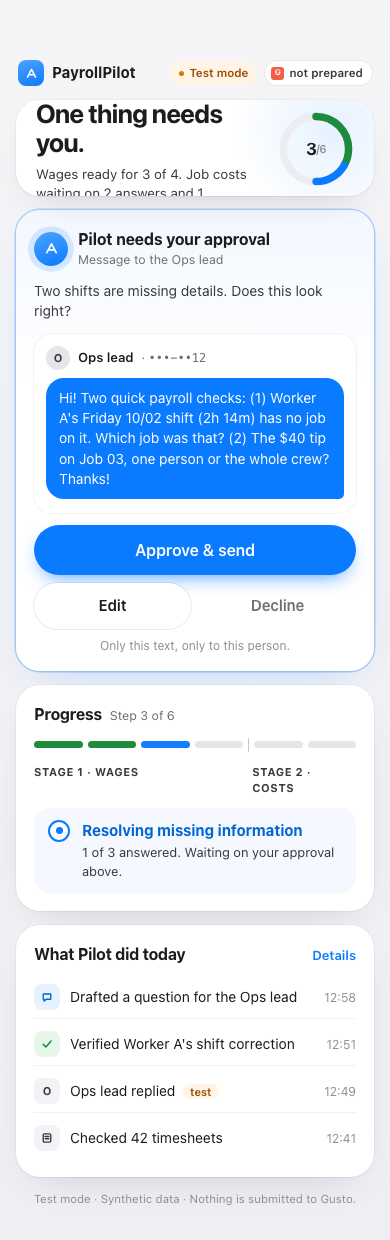
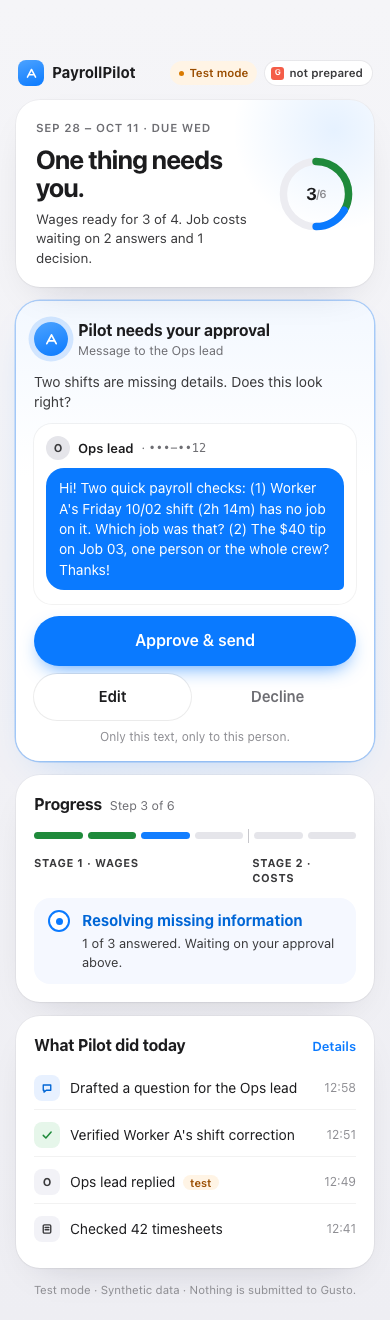
G-01: phone home: cards no longer shrink inside the frame

diff --git a/design/claude-design/Phone.dc.html b/design/claude-design/Phone.dc.html
@@ -18,9 +18,9 @@ button:active{transform:scale(.98)}
 @media (prefers-reduced-motion: reduce){*{animation:none !important}}
 </style>
 </helmet>
-<div layer-name="Phone" style="width:390px;height:1240px;box-sizing:border-box;background:linear-gradient(180deg,#F5F5F8,#EEEEF3);display:flex;flex-direction:column;gap:14px;padding:60px 16px 32px;font-size:15px;line-height:1.45">
+<div layer-name="Phone" style="width:390px;height:1320px;box-sizing:border-box;background:linear-gradient(180deg,#F5F5F8,#EEEEF3);display:flex;flex-direction:column;gap:14px;padding:60px 16px 32px;font-size:15px;line-height:1.45">
 
-  <div layer-name="Top" style="display:flex;align-items:center;gap:8px;padding:0 2px">
+  <div layer-name="Top" style="flex-shrink:0;display:flex;align-items:center;gap:8px;padding:0 2px">
     <div aria-hidden="true" style="width:26px;height:26px;border-radius:8px;background:linear-gradient(160deg,#4DA3FF,{{accent}});display:flex;align-items:center;justify-content:center"><svg width="13" height="13" viewBox="0 0 16 16" fill="none" stroke="#fff" stroke-width="1.9" stroke-linecap="round" stroke-linejoin="round"><path d="M3 12.5 8 3l5 9.5"></path><path d="M5.5 9.5h5"></path></svg></div>
     <div style="font-weight:700;font-size:15px">PayrollPilot</div>
     <div style="flex:1 1 8px"></div>
@@ -28,7 +28,7 @@ button:active{transform:scale(.98)}
     <div style="display:flex;align-items:center;gap:5px;height:24px;padding:0 9px 0 6px;border-radius:999px;background:#FFFFFF;box-shadow:0 0 0 1px rgba(0,0,0,.05);font-size:11.5px;font-weight:600;color:#3A3A3C"><span aria-hidden="true" style="width:13px;height:13px;border-radius:3px;background:#F45D48;color:#fff;font-size:8px;font-weight:700;display:flex;align-items:center;justify-content:center">G</span>not prepared</div>
   </div>
 
-  <div layer-name="Hero" style="background:#FFFFFF;border-radius:24px;box-shadow:0 1px 2px rgba(0,0,0,.03),0 16px 40px -24px rgba(20,20,40,.25),0 0 0 1px rgba(0,0,0,.03);padding:20px 20px 18px;display:flex;align-items:center;gap:16px;position:relative;overflow:hidden">
+  <div layer-name="Hero" style="flex-shrink:0;background:#FFFFFF;border-radius:24px;box-shadow:0 1px 2px rgba(0,0,0,.03),0 16px 40px -24px rgba(20,20,40,.25),0 0 0 1px rgba(0,0,0,.03);padding:20px 20px 18px;display:flex;align-items:center;gap:16px;position:relative;overflow:hidden">
     <div aria-hidden="true" style="position:absolute;right:-70px;top:-80px;width:220px;height:220px;border-radius:50%;background:radial-gradient(circle,rgba(10,122,255,.10),rgba(10,122,255,0) 65%)"></div>
     <div style="display:flex;flex-direction:column;gap:8px;flex:1 1 0;min-width:0;position:relative">
       <div style="font-size:11.5px;font-weight:600;letter-spacing:.06em;text-transform:uppercase;color:#6E6E73">Sep 28 – Oct 11 · due Wed</div>
@@ -41,7 +41,7 @@ button:active{transform:scale(.98)}
     </div>
   </div>
 
-  <div layer-name="Needs your approval" style="background:linear-gradient(180deg,#F3F8FF 0%,#FFFFFF 38%);border-radius:24px;box-shadow:0 1px 2px rgba(0,0,0,.03),0 16px 40px -24px rgba(10,122,255,.35),0 0 0 1.5px rgba(10,122,255,.30);padding:18px 18px 16px;display:flex;flex-direction:column;gap:12px">
+  <div layer-name="Needs your approval" style="flex-shrink:0;background:linear-gradient(180deg,#F3F8FF 0%,#FFFFFF 38%);border-radius:24px;box-shadow:0 1px 2px rgba(0,0,0,.03),0 16px 40px -24px rgba(10,122,255,.35),0 0 0 1.5px rgba(10,122,255,.30);padding:18px 18px 16px;display:flex;flex-direction:column;gap:12px">
     <div style="display:flex;align-items:center;gap:10px">
       <div aria-hidden="true" style="width:34px;height:34px;border-radius:50%;background:linear-gradient(160deg,#4DA3FF,{{accent}});display:flex;align-items:center;justify-content:center;animation:pp-pulse 2.4s infinite"><svg width="15" height="15" viewBox="0 0 16 16" fill="none" stroke="#fff" stroke-width="1.8" stroke-linecap="round" stroke-linejoin="round"><path d="M3 12.5 8 3l5 9.5"></path><path d="M5.5 9.5h5"></path></svg></div>
       <div style="display:flex;flex-direction:column"><div style="font-size:16px;font-weight:700;letter-spacing:-.01em">Pilot needs your approval</div><div style="font-size:12.5px;color:#6E6E73">Message to the Ops lead</div></div>
@@ -61,7 +61,7 @@ button:active{transform:scale(.98)}
     </div>
   </div>
 
-  <div layer-name="Progress" style="background:#FFFFFF;border-radius:24px;box-shadow:0 1px 2px rgba(0,0,0,.03),0 16px 40px -24px rgba(20,20,40,.22),0 0 0 1px rgba(0,0,0,.03);padding:18px;display:flex;flex-direction:column;gap:12px">
+  <div layer-name="Progress" style="flex-shrink:0;background:#FFFFFF;border-radius:24px;box-shadow:0 1px 2px rgba(0,0,0,.03),0 16px 40px -24px rgba(20,20,40,.22),0 0 0 1px rgba(0,0,0,.03);padding:18px;display:flex;flex-direction:column;gap:12px">
     <div style="display:flex;align-items:baseline;gap:8px"><div style="font-size:16px;font-weight:700;letter-spacing:-.015em">Progress</div><div style="font-size:12.5px;color:#6E6E73">Step 3 of 6</div></div>
     <div style="display:flex;gap:5px;align-items:center">
       <div aria-hidden="true" style="flex:1 1 0;height:7px;border-radius:999px;background:#1F8A3B"></div>
@@ -79,7 +79,7 @@ button:active{transform:scale(.98)}
     </div>
   </div>
 
-  <div layer-name="Activity" style="background:#FFFFFF;border-radius:24px;box-shadow:0 1px 2px rgba(0,0,0,.03),0 16px 40px -24px rgba(20,20,40,.22),0 0 0 1px rgba(0,0,0,.03);padding:18px;display:flex;flex-direction:column;gap:4px">
+  <div layer-name="Activity" style="flex-shrink:0;background:#FFFFFF;border-radius:24px;box-shadow:0 1px 2px rgba(0,0,0,.03),0 16px 40px -24px rgba(20,20,40,.22),0 0 0 1px rgba(0,0,0,.03);padding:18px;display:flex;flex-direction:column;gap:4px">
     <div style="display:flex;align-items:baseline;padding-bottom:6px"><div style="font-size:16px;font-weight:700;letter-spacing:-.015em">What Pilot did today</div><div style="flex:1 1 8px"></div><a href="#details" style="font-size:13px;font-weight:600;text-decoration:none">Details</a></div>
     <div style="display:flex;align-items:center;gap:10px;padding:8px 0;border-bottom:1px solid rgba(0,0,0,.05)"><span aria-hidden="true" style="width:26px;height:26px;border-radius:8px;background:#E8F1FF;display:flex;align-items:center;justify-content:center;flex-shrink:0"><svg width="12" height="12" viewBox="0 0 16 16" fill="none" stroke="#0066D6" stroke-width="1.8" stroke-linecap="round" stroke-linejoin="round"><path d="M3 4h10v7H7l-3 2.5V11H3z"></path></svg></span><div style="flex:1 1 0;font-size:14px">Drafted a question for the Ops lead</div><div style="font-size:12px;color:#8E8E93">12:58</div></div>
     <div style="display:flex;align-items:center;gap:10px;padding:8px 0;border-bottom:1px solid rgba(0,0,0,.05)"><span aria-hidden="true" style="width:26px;height:26px;border-radius:8px;background:#E6F6EA;display:flex;align-items:center;justify-content:center;flex-shrink:0"><svg width="12" height="12" viewBox="0 0 16 16" fill="none" stroke="#1F8A3B" stroke-width="2" stroke-linecap="round" stroke-linejoin="round"><path d="M3 8.5l3.5 3.5 7-8"></path></svg></span><div style="flex:1 1 0;font-size:14px">Verified Worker A's shift correction</div><div style="font-size:12px;color:#8E8E93">12:51</div></div>
@@ -90,7 +90,7 @@ button:active{transform:scale(.98)}
   <div style="font-size:11.5px;color:#8E8E93;text-align:center;padding:0 8px">Test mode · Synthetic data · Nothing is submitted to Gusto.</div>
 </div>
 </x-dc>
-<script type="text/x-dc" data-dc-script data-props='{"accent":{"editor":"color","default":"#0A7AFF","section":"Theme"},"$preview":{"width":390,"height":1240}}'>
+<script type="text/x-dc" data-dc-script data-props='{"accent":{"editor":"color","default":"#0A7AFF","section":"Theme"},"$preview":{"width":390,"height":1320}}'>
 class Component extends DCLogic {
   renderVals() {
     return { accent: this.props.accent ?? '#0A7AFF' };

diff --git a/design/phone-home.html b/design/phone-home.html
@@ -19,9 +19,9 @@ button:active{transform:scale(.98)}
 @media (prefers-reduced-motion: reduce){*{animation:none !important}}
 </style>
 
-<div layer-name="Phone" style="width:390px;height:1240px;box-sizing:border-box;background:linear-gradient(180deg,#F5F5F8,#EEEEF3);display:flex;flex-direction:column;gap:14px;padding:60px 16px 32px;font-size:15px;line-height:1.45">
+<div layer-name="Phone" style="width:390px;height:1320px;box-sizing:border-box;background:linear-gradient(180deg,#F5F5F8,#EEEEF3);display:flex;flex-direction:column;gap:14px;padding:60px 16px 32px;font-size:15px;line-height:1.45">
 
-  <div layer-name="Top" style="display:flex;align-items:center;gap:8px;padding:0 2px">
+  <div layer-name="Top" style="flex-shrink:0;display:flex;align-items:center;gap:8px;padding:0 2px">
     <div aria-hidden="true" style="width:26px;height:26px;border-radius:8px;background:linear-gradient(160deg,#4DA3FF,#0A7AFF);display:flex;align-items:center;justify-content:center"><svg width="13" height="13" viewBox="0 0 16 16" fill="none" stroke="#fff" stroke-width="1.9" stroke-linecap="round" stroke-linejoin="round"><path d="M3 12.5 8 3l5 9.5"></path><path d="M5.5 9.5h5"></path></svg></div>
     <div style="font-weight:700;font-size:15px">PayrollPilot</div>
     <div style="flex:1 1 8px"></div>
@@ -29,7 +29,7 @@ button:active{transform:scale(.98)}
     <div style="display:flex;align-items:center;gap:5px;height:24px;padding:0 9px 0 6px;border-radius:999px;background:#FFFFFF;box-shadow:0 0 0 1px rgba(0,0,0,.05);font-size:11.5px;font-weight:600;color:#3A3A3C"><span aria-hidden="true" style="width:13px;height:13px;border-radius:3px;background:#F45D48;color:#fff;font-size:8px;font-weight:700;display:flex;align-items:center;justify-content:center">G</span>not prepared</div>
   </div>
 
-  <div layer-name="Hero" style="background:#FFFFFF;border-radius:24px;box-shadow:0 1px 2px rgba(0,0,0,.03),0 16px 40px -24px rgba(20,20,40,.25),0 0 0 1px rgba(0,0,0,.03);padding:20px 20px 18px;display:flex;align-items:center;gap:16px;position:relative;overflow:hidden">
+  <div layer-name="Hero" style="flex-shrink:0;background:#FFFFFF;border-radius:24px;box-shadow:0 1px 2px rgba(0,0,0,.03),0 16px 40px -24px rgba(20,20,40,.25),0 0 0 1px rgba(0,0,0,.03);padding:20px 20px 18px;display:flex;align-items:center;gap:16px;position:relative;overflow:hidden">
     <div aria-hidden="true" style="position:absolute;right:-70px;top:-80px;width:220px;height:220px;border-radius:50%;background:radial-gradient(circle,rgba(10,122,255,.10),rgba(10,122,255,0) 65%)"></div>
     <div style="display:flex;flex-direction:column;gap:8px;flex:1 1 0;min-width:0;position:relative">
       <div style="font-size:11.5px;font-weight:600;letter-spacing:.06em;text-transform:uppercase;color:#6E6E73">Sep 28 – Oct 11 · due Wed</div>
@@ -42,7 +42,7 @@ button:active{transform:scale(.98)}
     </div>
   </div>
 
-  <div layer-name="Needs your approval" style="background:linear-gradient(180deg,#F3F8FF 0%,#FFFFFF 38%);border-radius:24px;box-shadow:0 1px 2px rgba(0,0,0,.03),0 16px 40px -24px rgba(10,122,255,.35),0 0 0 1.5px rgba(10,122,255,.30);padding:18px 18px 16px;display:flex;flex-direction:column;gap:12px">
+  <div layer-name="Needs your approval" style="flex-shrink:0;background:linear-gradient(180deg,#F3F8FF 0%,#FFFFFF 38%);border-radius:24px;box-shadow:0 1px 2px rgba(0,0,0,.03),0 16px 40px -24px rgba(10,122,255,.35),0 0 0 1.5px rgba(10,122,255,.30);padding:18px 18px 16px;display:flex;flex-direction:column;gap:12px">
     <div style="display:flex;align-items:center;gap:10px">
       <div aria-hidden="true" style="width:34px;height:34px;border-radius:50%;background:linear-gradient(160deg,#4DA3FF,#0A7AFF);display:flex;align-items:center;justify-content:center;animation:pp-pulse 2.4s infinite"><svg width="15" height="15" viewBox="0 0 16 16" fill="none" stroke="#fff" stroke-width="1.8" stroke-linecap="round" stroke-linejoin="round"><path d="M3 12.5 8 3l5 9.5"></path><path d="M5.5 9.5h5"></path></svg></div>
       <div style="display:flex;flex-direction:column"><div style="font-size:16px;font-weight:700;letter-spacing:-.01em">Pilot needs your approval</div><div style="font-size:12.5px;color:#6E6E73">Message to the Ops lead</div></div>
@@ -62,7 +62,7 @@ button:active{transform:scale(.98)}
     </div>
   </div>
 
-  <div layer-name="Progress" style="background:#FFFFFF;border-radius:24px;box-shadow:0 1px 2px rgba(0,0,0,.03),0 16px 40px -24px rgba(20,20,40,.22),0 0 0 1px rgba(0,0,0,.03);padding:18px;display:flex;flex-direction:column;gap:12px">
+  <div layer-name="Progress" style="flex-shrink:0;background:#FFFFFF;border-radius:24px;box-shadow:0 1px 2px rgba(0,0,0,.03),0 16px 40px -24px rgba(20,20,40,.22),0 0 0 1px rgba(0,0,0,.03);padding:18px;display:flex;flex-direction:column;gap:12px">
     <div style="display:flex;align-items:baseline;gap:8px"><div style="font-size:16px;font-weight:700;letter-spacing:-.015em">Progress</div><div style="font-size:12.5px;color:#6E6E73">Step 3 of 6</div></div>
     <div style="display:flex;gap:5px;align-items:center">
       <div aria-hidden="true" style="flex:1 1 0;height:7px;border-radius:999px;background:#1F8A3B"></div>
@@ -80,7 +80,7 @@ button:active{transform:scale(.98)}
     </div>
   </div>
 
-  <div layer-name="Activity" style="background:#FFFFFF;border-radius:24px;box-shadow:0 1px 2px rgba(0,0,0,.03),0 16px 40px -24px rgba(20,20,40,.22),0 0 0 1px rgba(0,0,0,.03);padding:18px;display:flex;flex-direction:column;gap:4px">
+  <div layer-name="Activity" style="flex-shrink:0;background:#FFFFFF;border-radius:24px;box-shadow:0 1px 2px rgba(0,0,0,.03),0 16px 40px -24px rgba(20,20,40,.22),0 0 0 1px rgba(0,0,0,.03);padding:18px;display:flex;flex-direction:column;gap:4px">
     <div style="display:flex;align-items:baseline;padding-bottom:6px"><div style="font-size:16px;font-weight:700;letter-spacing:-.015em">What Pilot did today</div><div style="flex:1 1 8px"></div><a href="#details" style="font-size:13px;font-weight:600;text-decoration:none">Details</a></div>
     <div style="display:flex;align-items:center;gap:10px;padding:8px 0;border-bottom:1px solid rgba(0,0,0,.05)"><span aria-hidden="true" style="width:26px;height:26px;border-radius:8px;background:#E8F1FF;display:flex;align-items:center;justify-content:center;flex-shrink:0"><svg width="12" height="12" viewBox="0 0 16 16" fill="none" stroke="#0066D6" stroke-width="1.8" stroke-linecap="round" stroke-linejoin="round"><path d="M3 4h10v7H7l-3 2.5V11H3z"></path></svg></span><div style="flex:1 1 0;font-size:14px">Drafted a question for the Ops lead</div><div style="font-size:12px;color:#8E8E93">12:58</div></div>
     <div style="display:flex;align-items:center;gap:10px;padding:8px 0;border-bottom:1px solid rgba(0,0,0,.05)"><span aria-hidden="true" style="width:26px;height:26px;border-radius:8px;background:#E6F6EA;display:flex;align-items:center;justify-content:center;flex-shrink:0"><svg width="12" height="12" viewBox="0 0 16 16" fill="none" stroke="#1F8A3B" stroke-width="2" stroke-linecap="round" stroke-linejoin="round"><path d="M3 8.5l3.5 3.5 7-8"></path></svg></span><div style="flex:1 1 0;font-size:14px">Verified Worker A's shift correction</div><div style="font-size:12px;color:#8E8E93">12:51</div></div>

diff --git a/design/claude-design/PhoneIdle.dc.html b/design/claude-design/PhoneIdle.dc.html
@@ -17,7 +17,7 @@ button:active{transform:scale(.98)}
 </helmet>
 <div layer-name="Phone" style="width:390px;height:980px;box-sizing:border-box;background:linear-gradient(180deg,#F5F5F8,#EEEEF3);display:flex;flex-direction:column;gap:14px;padding:60px 16px 32px;font-size:15px;line-height:1.45">
 
-  <div layer-name="Top" style="display:flex;align-items:center;gap:8px;padding:0 2px">
+  <div layer-name="Top" style="flex-shrink:0;display:flex;align-items:center;gap:8px;padding:0 2px">
     <div aria-hidden="true" style="width:26px;height:26px;border-radius:8px;background:linear-gradient(160deg,#4DA3FF,{{accent}});display:flex;align-items:center;justify-content:center"><svg width="13" height="13" viewBox="0 0 16 16" fill="none" stroke="#fff" stroke-width="1.9" stroke-linecap="round" stroke-linejoin="round"><path d="M3 12.5 8 3l5 9.5"></path><path d="M5.5 9.5h5"></path></svg></div>
     <div style="font-weight:700;font-size:15px">PayrollPilot</div>
     <div style="flex:1 1 8px"></div>
@@ -25,7 +25,7 @@ button:active{transform:scale(.98)}
     <div style="display:flex;align-items:center;gap:5px;height:24px;padding:0 9px 0 6px;border-radius:999px;background:#FFFFFF;box-shadow:0 0 0 1px rgba(0,0,0,.05);font-size:11.5px;font-weight:600;color:#3A3A3C"><span aria-hidden="true" style="width:13px;height:13px;border-radius:3px;background:#F45D48;color:#fff;font-size:8px;font-weight:700;display:flex;align-items:center;justify-content:center">G</span>not prepared</div>
   </div>
 
-  <div layer-name="Hero" style="background:#FFFFFF;border-radius:24px;box-shadow:0 1px 2px rgba(0,0,0,.03),0 16px 40px -24px rgba(20,20,40,.25),0 0 0 1px rgba(0,0,0,.03);padding:20px;display:flex;flex-direction:column;gap:10px;position:relative;overflow:hidden">
+  <div layer-name="Hero" style="flex-shrink:0;background:#FFFFFF;border-radius:24px;box-shadow:0 1px 2px rgba(0,0,0,.03),0 16px 40px -24px rgba(20,20,40,.25),0 0 0 1px rgba(0,0,0,.03);padding:20px;display:flex;flex-direction:column;gap:10px;position:relative;overflow:hidden">
     <div aria-hidden="true" style="position:absolute;right:-70px;top:-80px;width:220px;height:220px;border-radius:50%;background:radial-gradient(circle,rgba(10,122,255,.08),rgba(10,122,255,0) 65%)"></div>
     <div style="display:flex;align-items:center;gap:14px;position:relative">
       <div style="display:flex;flex-direction:column;gap:6px;flex:1 1 0;min-width:0">
@@ -44,7 +44,7 @@ button:active{transform:scale(.98)}
     </div>
   </div>
 
-  <div layer-name="Last payroll" style="background:#FFFFFF;border-radius:24px;box-shadow:0 1px 2px rgba(0,0,0,.03),0 16px 40px -24px rgba(20,20,40,.22),0 0 0 1px rgba(0,0,0,.03);padding:18px;display:flex;flex-direction:column;gap:10px">
+  <div layer-name="Last payroll" style="flex-shrink:0;background:#FFFFFF;border-radius:24px;box-shadow:0 1px 2px rgba(0,0,0,.03),0 16px 40px -24px rgba(20,20,40,.22),0 0 0 1px rgba(0,0,0,.03);padding:18px;display:flex;flex-direction:column;gap:10px">
     <div style="display:flex;align-items:center;gap:8px"><div style="font-size:16px;font-weight:700;letter-spacing:-.015em">Last payroll</div><div style="font-size:12.5px;color:#6E6E73">Sep 28 – Oct 11</div><div style="flex:1 1 8px"></div><a href="#workbook" style="font-size:13px;font-weight:600;text-decoration:none">Workbook</a></div>
     <div style="font-size:32px;font-weight:700;letter-spacing:-.04em;line-height:1;font-variant-numeric:tabular-nums">$7,570<span style="font-size:18px;color:#8E8E93;font-weight:600">.00</span></div>
     <div style="display:flex;gap:6px;flex-wrap:wrap">
@@ -54,7 +54,7 @@ button:active{transform:scale(.98)}
     </div>
   </div>
 
-  <div layer-name="Connections" style="background:#FFFFFF;border-radius:24px;box-shadow:0 1px 2px rgba(0,0,0,.03),0 16px 40px -24px rgba(20,20,40,.22),0 0 0 1px rgba(0,0,0,.03);padding:18px;display:flex;flex-direction:column;gap:8px">
+  <div layer-name="Connections" style="flex-shrink:0;background:#FFFFFF;border-radius:24px;box-shadow:0 1px 2px rgba(0,0,0,.03),0 16px 40px -24px rgba(20,20,40,.22),0 0 0 1px rgba(0,0,0,.03);padding:18px;display:flex;flex-direction:column;gap:8px">
     <div style="font-size:16px;font-weight:700;letter-spacing:-.015em;padding-bottom:2px">Connected, read only</div>
     <div style="display:flex;align-items:center;gap:10px;padding:10px 12px;border-radius:14px;background:#F5F5F8"><span aria-hidden="true" style="width:28px;height:28px;border-radius:8px;background:#2E9E6B;color:#fff;font-size:12px;font-weight:700;display:flex;align-items:center;justify-content:center">J</span><div style="flex:1 1 0;font-weight:600;font-size:14px">Jobber</div><div style="font-size:12px;color:#6E6E73;display:flex;align-items:center;gap:6px"><span aria-hidden="true" style="width:6px;height:6px;border-radius:50%;background:#1F8A3B"></span>Checked 2h ago</div></div>
     <div style="display:flex;align-items:center;gap:10px;padding:10px 12px;border-radius:14px;background:#F5F5F8"><span aria-hidden="true" style="width:28px;height:28px;border-radius:8px;background:#2CA01C;color:#fff;font-size:12px;font-weight:700;display:flex;align-items:center;justify-content:center">Q</span><div style="flex:1 1 0;font-weight:600;font-size:14px">QuickBooks</div><div style="font-size:12px;color:#6E6E73;display:flex;align-items:center;gap:6px"><span aria-hidden="true" style="width:6px;height:6px;border-radius:50%;background:#D97A00"></span>Expenses partial</div></div>

diff --git a/design/phone-idle.html b/design/phone-idle.html
@@ -18,7 +18,7 @@ button:active{transform:scale(.98)}
 
 <div layer-name="Phone" style="width:390px;height:980px;box-sizing:border-box;background:linear-gradient(180deg,#F5F5F8,#EEEEF3);display:flex;flex-direction:column;gap:14px;padding:60px 16px 32px;font-size:15px;line-height:1.45">
 
-  <div layer-name="Top" style="display:flex;align-items:center;gap:8px;padding:0 2px">
+  <div layer-name="Top" style="flex-shrink:0;display:flex;align-items:center;gap:8px;padding:0 2px">
     <div aria-hidden="true" style="width:26px;height:26px;border-radius:8px;background:linear-gradient(160deg,#4DA3FF,#0A7AFF);display:flex;align-items:center;justify-content:center"><svg width="13" height="13" viewBox="0 0 16 16" fill="none" stroke="#fff" stroke-width="1.9" stroke-linecap="round" stroke-linejoin="round"><path d="M3 12.5 8 3l5 9.5"></path><path d="M5.5 9.5h5"></path></svg></div>
     <div style="font-weight:700;font-size:15px">PayrollPilot</div>
     <div style="flex:1 1 8px"></div>
@@ -26,7 +26,7 @@ button:active{transform:scale(.98)}
     <div style="display:flex;align-items:center;gap:5px;height:24px;padding:0 9px 0 6px;border-radius:999px;background:#FFFFFF;box-shadow:0 0 0 1px rgba(0,0,0,.05);font-size:11.5px;font-weight:600;color:#3A3A3C"><span aria-hidden="true" style="width:13px;height:13px;border-radius:3px;background:#F45D48;color:#fff;font-size:8px;font-weight:700;display:flex;align-items:center;justify-content:center">G</span>not prepared</div>
   </div>
 
-  <div layer-name="Hero" style="background:#FFFFFF;border-radius:24px;box-shadow:0 1px 2px rgba(0,0,0,.03),0 16px 40px -24px rgba(20,20,40,.25),0 0 0 1px rgba(0,0,0,.03);padding:20px;display:flex;flex-direction:column;gap:10px;position:relative;overflow:hidden">
+  <div layer-name="Hero" style="flex-shrink:0;background:#FFFFFF;border-radius:24px;box-shadow:0 1px 2px rgba(0,0,0,.03),0 16px 40px -24px rgba(20,20,40,.25),0 0 0 1px rgba(0,0,0,.03);padding:20px;display:flex;flex-direction:column;gap:10px;position:relative;overflow:hidden">
     <div aria-hidden="true" style="position:absolute;right:-70px;top:-80px;width:220px;height:220px;border-radius:50%;background:radial-gradient(circle,rgba(10,122,255,.08),rgba(10,122,255,0) 65%)"></div>
     <div style="display:flex;align-items:center;gap:14px;position:relative">
       <div style="display:flex;flex-direction:column;gap:6px;flex:1 1 0;min-width:0">
@@ -45,7 +45,7 @@ button:active{transform:scale(.98)}
     </div>
   </div>
 
-  <div layer-name="Last payroll" style="background:#FFFFFF;border-radius:24px;box-shadow:0 1px 2px rgba(0,0,0,.03),0 16px 40px -24px rgba(20,20,40,.22),0 0 0 1px rgba(0,0,0,.03);padding:18px;display:flex;flex-direction:column;gap:10px">
+  <div layer-name="Last payroll" style="flex-shrink:0;background:#FFFFFF;border-radius:24px;box-shadow:0 1px 2px rgba(0,0,0,.03),0 16px 40px -24px rgba(20,20,40,.22),0 0 0 1px rgba(0,0,0,.03);padding:18px;display:flex;flex-direction:column;gap:10px">
     <div style="display:flex;align-items:center;gap:8px"><div style="font-size:16px;font-weight:700;letter-spacing:-.015em">Last payroll</div><div style="font-size:12.5px;color:#6E6E73">Sep 28 – Oct 11</div><div style="flex:1 1 8px"></div><a href="#workbook" style="font-size:13px;font-weight:600;text-decoration:none">Workbook</a></div>
     <div style="font-size:32px;font-weight:700;letter-spacing:-.04em;line-height:1;font-variant-numeric:tabular-nums">$7,570<span style="font-size:18px;color:#8E8E93;font-weight:600">.00</span></div>
     <div style="display:flex;gap:6px;flex-wrap:wrap">
@@ -55,7 +55,7 @@ button:active{transform:scale(.98)}
     </div>
   </div>
 
-  <div layer-name="Connections" style="background:#FFFFFF;border-radius:24px;box-shadow:0 1px 2px rgba(0,0,0,.03),0 16px 40px -24px rgba(20,20,40,.22),0 0 0 1px rgba(0,0,0,.03);padding:18px;display:flex;flex-direction:column;gap:8px">
+  <div layer-name="Connections" style="flex-shrink:0;background:#FFFFFF;border-radius:24px;box-shadow:0 1px 2px rgba(0,0,0,.03),0 16px 40px -24px rgba(20,20,40,.22),0 0 0 1px rgba(0,0,0,.03);padding:18px;display:flex;flex-direction:column;gap:8px">
     <div style="font-size:16px;font-weight:700;letter-spacing:-.015em;padding-bottom:2px">Connected, read only</div>
     <div style="display:flex;align-items:center;gap:10px;padding:10px 12px;border-radius:14px;background:#F5F5F8"><span aria-hidden="true" style="width:28px;height:28px;border-radius:8px;background:#2E9E6B;color:#fff;font-size:12px;font-weight:700;display:flex;align-items:center;justify-content:center">J</span><div style="flex:1 1 0;font-weight:600;font-size:14px">Jobber</div><div style="font-size:12px;color:#6E6E73;display:flex;align-items:center;gap:6px"><span aria-hidden="true" style="width:6px;height:6px;border-radius:50%;background:#1F8A3B"></span>Checked 2h ago</div></div>
     <div style="display:flex;align-items:center;gap:10px;padding:10px 12px;border-radius:14px;background:#F5F5F8"><span aria-hidden="true" style="width:28px;height:28px;border-radius:8px;background:#2CA01C;color:#fff;font-size:12px;font-weight:700;display:flex;align-items:center;justify-content:center">Q</span><div style="flex:1 1 0;font-weight:600;font-size:14px">QuickBooks</div><div style="font-size:12px;color:#6E6E73;display:flex;align-items:center;gap:6px"><span aria-hidden="true" style="width:6px;height:6px;border-radius:50%;background:#D97A00"></span>Expenses partial</div></div>

diff --git a/design/claude-design/PhoneReady.dc.html b/design/claude-design/PhoneReady.dc.html
@@ -18,7 +18,7 @@ button:active{transform:scale(.98)}
 </helmet>
 <div layer-name="Phone" style="width:390px;height:1240px;box-sizing:border-box;background:linear-gradient(180deg,#F5F5F8,#EEEEF3);display:flex;flex-direction:column;gap:14px;padding:60px 16px 32px;font-size:15px;line-height:1.45">
 
-  <div layer-name="Top" style="display:flex;align-items:center;gap:8px;padding:0 2px">
+  <div layer-name="Top" style="flex-shrink:0;display:flex;align-items:center;gap:8px;padding:0 2px">
     <div aria-hidden="true" style="width:26px;height:26px;border-radius:8px;background:linear-gradient(160deg,#4DA3FF,{{accent}});display:flex;align-items:center;justify-content:center"><svg width="13" height="13" viewBox="0 0 16 16" fill="none" stroke="#fff" stroke-width="1.9" stroke-linecap="round" stroke-linejoin="round"><path d="M3 12.5 8 3l5 9.5"></path><path d="M5.5 9.5h5"></path></svg></div>
     <div style="font-weight:700;font-size:15px">PayrollPilot</div>
     <div style="flex:1 1 8px"></div>
@@ -26,7 +26,7 @@ button:active{transform:scale(.98)}
     <div style="display:flex;align-items:center;gap:5px;height:24px;padding:0 9px 0 6px;border-radius:999px;background:#FFFFFF;box-shadow:0 0 0 1px rgba(0,0,0,.05);font-size:11.5px;font-weight:600;color:#3A3A3C"><span aria-hidden="true" style="width:13px;height:13px;border-radius:3px;background:#F45D48;color:#fff;font-size:8px;font-weight:700;display:flex;align-items:center;justify-content:center">G</span>not prepared</div>
   </div>
 
-  <div layer-name="Hero" style="background:#FFFFFF;border-radius:24px;box-shadow:0 1px 2px rgba(0,0,0,.03),0 16px 40px -24px rgba(20,20,40,.25),0 0 0 1px rgba(0,0,0,.03);padding:20px 20px 18px;display:flex;align-items:center;gap:16px;position:relative;overflow:hidden">
+  <div layer-name="Hero" style="flex-shrink:0;background:#FFFFFF;border-radius:24px;box-shadow:0 1px 2px rgba(0,0,0,.03),0 16px 40px -24px rgba(20,20,40,.25),0 0 0 1px rgba(0,0,0,.03);padding:20px 20px 18px;display:flex;align-items:center;gap:16px;position:relative;overflow:hidden">
     <div aria-hidden="true" style="position:absolute;right:-70px;top:-80px;width:220px;height:220px;border-radius:50%;background:radial-gradient(circle,rgba(31,138,59,.12),rgba(31,138,59,0) 65%)"></div>
     <div style="display:flex;flex-direction:column;gap:6px;flex:1 1 0;min-width:0;position:relative">
       <div style="font-size:11.5px;font-weight:600;letter-spacing:.06em;text-transform:uppercase;color:#6E6E73">Sep 28 – Oct 11 · payday Fri</div>
@@ -40,7 +40,7 @@ button:active{transform:scale(.98)}
     </div>
   </div>
 
-  <div layer-name="Summary" style="background:linear-gradient(180deg,#F3FBF5 0%,#FFFFFF 34%);border-radius:24px;box-shadow:0 1px 2px rgba(0,0,0,.03),0 16px 40px -24px rgba(31,138,59,.35),0 0 0 1.5px rgba(31,138,59,.30);padding:18px 18px 16px;display:flex;flex-direction:column;gap:12px">
+  <div layer-name="Summary" style="flex-shrink:0;background:linear-gradient(180deg,#F3FBF5 0%,#FFFFFF 34%);border-radius:24px;box-shadow:0 1px 2px rgba(0,0,0,.03),0 16px 40px -24px rgba(31,138,59,.35),0 0 0 1.5px rgba(31,138,59,.30);padding:18px 18px 16px;display:flex;flex-direction:column;gap:12px">
     <div style="display:flex;align-items:center;gap:10px">
       <div aria-hidden="true" style="width:34px;height:34px;border-radius:50%;background:linear-gradient(160deg,#4DA3FF,{{accent}});display:flex;align-items:center;justify-content:center"><svg width="15" height="15" viewBox="0 0 16 16" fill="none" stroke="#fff" stroke-width="1.8" stroke-linecap="round" stroke-linejoin="round"><path d="M3 12.5 8 3l5 9.5"></path><path d="M5.5 9.5h5"></path></svg></div>
       <div style="display:flex;flex-direction:column"><div style="font-size:16px;font-weight:700;letter-spacing:-.01em">Pilot has a draft for you</div><div style="font-size:12.5px;color:#6E6E73">Draft 3 · workbook matches</div></div>

diff --git a/design/phone-ready.html b/design/phone-ready.html
@@ -19,7 +19,7 @@ button:active{transform:scale(.98)}
 
 <div layer-name="Phone" style="width:390px;height:1240px;box-sizing:border-box;background:linear-gradient(180deg,#F5F5F8,#EEEEF3);display:flex;flex-direction:column;gap:14px;padding:60px 16px 32px;font-size:15px;line-height:1.45">
 
-  <div layer-name="Top" style="display:flex;align-items:center;gap:8px;padding:0 2px">
+  <div layer-name="Top" style="flex-shrink:0;display:flex;align-items:center;gap:8px;padding:0 2px">
     <div aria-hidden="true" style="width:26px;height:26px;border-radius:8px;background:linear-gradient(160deg,#4DA3FF,#0A7AFF);display:flex;align-items:center;justify-content:center"><svg width="13" height="13" viewBox="0 0 16 16" fill="none" stroke="#fff" stroke-width="1.9" stroke-linecap="round" stroke-linejoin="round"><path d="M3 12.5 8 3l5 9.5"></path><path d="M5.5 9.5h5"></path></svg></div>
     <div style="font-weight:700;font-size:15px">PayrollPilot</div>
     <div style="flex:1 1 8px"></div>
@@ -27,7 +27,7 @@ button:active{transform:scale(.98)}
     <div style="display:flex;align-items:center;gap:5px;height:24px;padding:0 9px 0 6px;border-radius:999px;background:#FFFFFF;box-shadow:0 0 0 1px rgba(0,0,0,.05);font-size:11.5px;font-weight:600;color:#3A3A3C"><span aria-hidden="true" style="width:13px;height:13px;border-radius:3px;background:#F45D48;color:#fff;font-size:8px;font-weight:700;display:flex;align-items:center;justify-content:center">G</span>not prepared</div>
   </div>
 
-  <div layer-name="Hero" style="background:#FFFFFF;border-radius:24px;box-shadow:0 1px 2px rgba(0,0,0,.03),0 16px 40px -24px rgba(20,20,40,.25),0 0 0 1px rgba(0,0,0,.03);padding:20px 20px 18px;display:flex;align-items:center;gap:16px;position:relative;overflow:hidden">
+  <div layer-name="Hero" style="flex-shrink:0;background:#FFFFFF;border-radius:24px;box-shadow:0 1px 2px rgba(0,0,0,.03),0 16px 40px -24px rgba(20,20,40,.25),0 0 0 1px rgba(0,0,0,.03);padding:20px 20px 18px;display:flex;align-items:center;gap:16px;position:relative;overflow:hidden">
     <div aria-hidden="true" style="position:absolute;right:-70px;top:-80px;width:220px;height:220px;border-radius:50%;background:radial-gradient(circle,rgba(31,138,59,.12),rgba(31,138,59,0) 65%)"></div>
     <div style="display:flex;flex-direction:column;gap:6px;flex:1 1 0;min-width:0;position:relative">
       <div style="font-size:11.5px;font-weight:600;letter-spacing:.06em;text-transform:uppercase;color:#6E6E73">Sep 28 – Oct 11 · payday Fri</div>
@@ -41,7 +41,7 @@ button:active{transform:scale(.98)}
     </div>
   </div>
 
-  <div layer-name="Summary" style="background:linear-gradient(180deg,#F3FBF5 0%,#FFFFFF 34%);border-radius:24px;box-shadow:0 1px 2px rgba(0,0,0,.03),0 16px 40px -24px rgba(31,138,59,.35),0 0 0 1.5px rgba(31,138,59,.30);padding:18px 18px 16px;display:flex;flex-direction:column;gap:12px">
+  <div layer-name="Summary" style="flex-shrink:0;background:linear-gradient(180deg,#F3FBF5 0%,#FFFFFF 34%);border-radius:24px;box-shadow:0 1px 2px rgba(0,0,0,.03),0 16px 40px -24px rgba(31,138,59,.35),0 0 0 1.5px rgba(31,138,59,.30);padding:18px 18px 16px;display:flex;flex-direction:column;gap:12px">
     <div style="display:flex;align-items:center;gap:10px">
       <div aria-hidden="true" style="width:34px;height:34px;border-radius:50%;background:linear-gradient(160deg,#4DA3FF,#0A7AFF);display:flex;align-items:center;justify-content:center"><svg width="15" height="15" viewBox="0 0 16 16" fill="none" stroke="#fff" stroke-width="1.8" stroke-linecap="round" stroke-linejoin="round"><path d="M3 12.5 8 3l5 9.5"></path><path d="M5.5 9.5h5"></path></svg></div>
       <div style="display:flex;flex-direction:column"><div style="font-size:16px;font-weight:700;letter-spacing:-.01em">Pilot has a draft for you</div><div style="font-size:12.5px;color:#6E6E73">Draft 3 · workbook matches</div></div>
